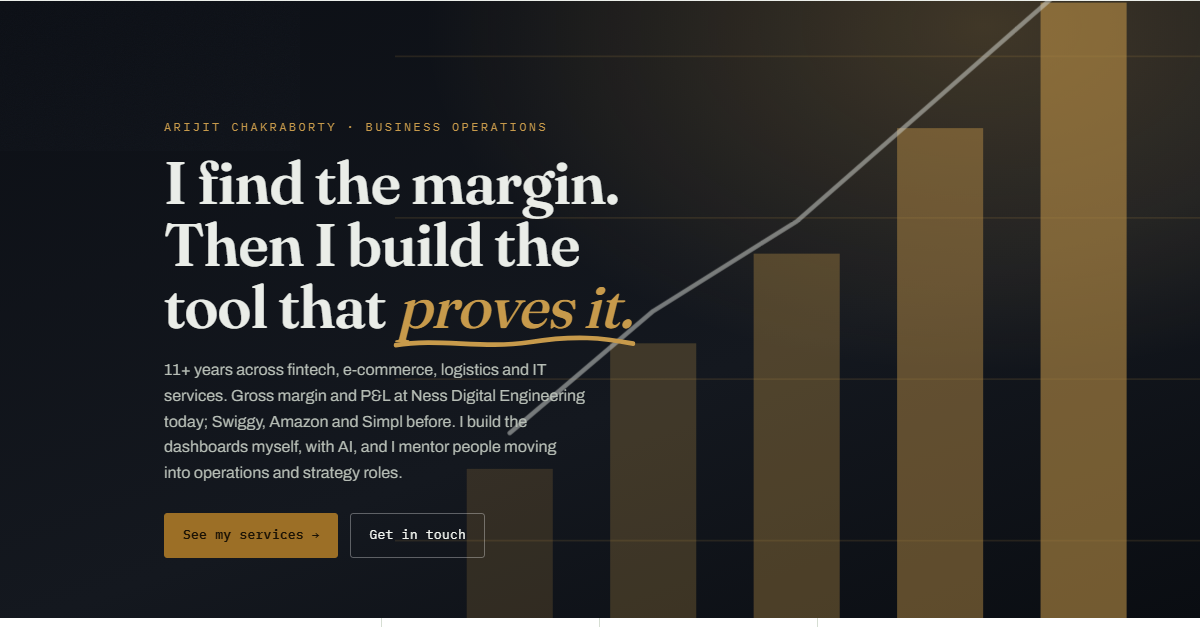
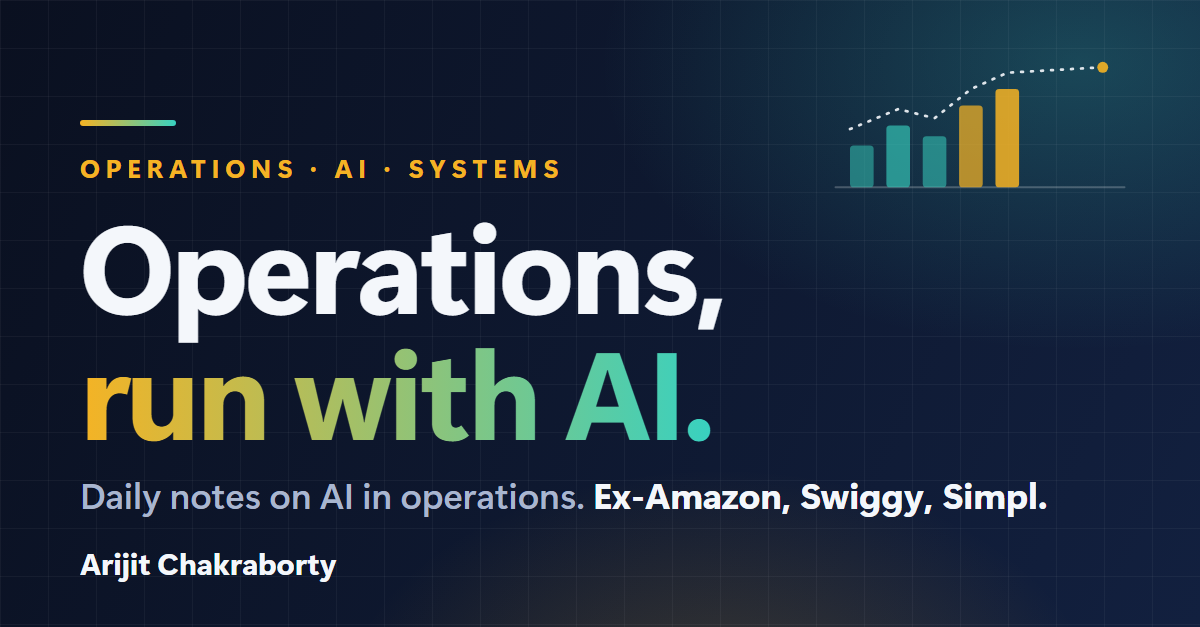
New hero and preview: Operations, run with AI

diff --git a/index.html b/index.html
@@ -3,23 +3,23 @@
 <head>
 <meta charset="utf-8">
 <meta name="viewport" content="width=device-width, initial-scale=1">
-<title>Arijit Chakraborty | Business Operations, P&L and AI-built tooling</title>
-<meta name="description" content="Operator with 11+ years across fintech, e-commerce, logistics and IT services (ex-Amazon, Swiggy, Simpl). Gross margin and P&L, operating rhythm, and the dashboards and tools to prove it. Consulting, fractional ops and mentoring.">
+<title>Arijit Chakraborty | Operations leader writing and building with AI</title>
+<meta name="description" content="Operations leader with 11+ years across fintech, e-commerce, logistics and IT services (ex-Amazon, Swiggy, Simpl). Daily notes on AI in operations: metrics that tell the truth, AI guardrails, and plain-file systems.">
 <link rel="canonical" href="https://acbizai-star.github.io/arijit-portfolio/">
 <meta name="theme-color" content="#0E1118">
 <meta property="og:type" content="profile">
 <meta property="og:site_name" content="Arijit Chakraborty">
-<meta property="og:title" content="Arijit Chakraborty | Business Operations, P&L and AI-built tooling">
-<meta property="og:description" content="Operator with 11+ years across fintech, e-commerce, logistics and IT services (ex-Amazon, Swiggy, Simpl). Gross margin and P&L, operating rhythm, and the dashboards and tools to prove it. Consulting, fractional ops and mentoring.">
+<meta property="og:title" content="Arijit Chakraborty | Operations leader writing and building with AI">
+<meta property="og:description" content="Operations leader with 11+ years across fintech, e-commerce, logistics and IT services (ex-Amazon, Swiggy, Simpl). Daily notes on AI in operations: metrics that tell the truth, AI guardrails, and plain-file systems.">
 <meta property="og:url" content="https://acbizai-star.github.io/arijit-portfolio/">
 <meta property="og:image" content="https://acbizai-star.github.io/arijit-portfolio/og-image.png">
 <meta property="og:image:width" content="1200">
 <meta property="og:image:height" content="627">
-<meta property="og:image:alt" content="Arijit Chakraborty: I find the margin. Then I build the tool that proves it.">
+<meta property="og:image:alt" content="Arijit Chakraborty: Operations, run with AI. Daily notes on AI in operations.">
 <meta name="twitter:card" content="summary_large_image">
 <meta name="twitter:site" content="@ArijitC629">
-<meta name="twitter:title" content="Arijit Chakraborty | Business Operations, P&L and AI-built tooling">
-<meta name="twitter:description" content="Operator with 11+ years across fintech, e-commerce, logistics and IT services (ex-Amazon, Swiggy, Simpl). Gross margin and P&L, operating rhythm, and the dashboards and tools to prove it. Consulting, fractional ops and mentoring.">
+<meta name="twitter:title" content="Arijit Chakraborty | Operations leader writing and building with AI">
+<meta name="twitter:description" content="Operations leader with 11+ years across fintech, e-commerce, logistics and IT services (ex-Amazon, Swiggy, Simpl). Daily notes on AI in operations: metrics that tell the truth, AI guardrails, and plain-file systems.">
 <meta name="twitter:image" content="https://acbizai-star.github.io/arijit-portfolio/og-image.png">
 <script type="application/ld+json">{"@context": "https://schema.org", "@type": "Person", "name": "Arijit Chakraborty", "url": "https://acbizai-star.github.io/arijit-portfolio/", "jobTitle": "Business Operations & Business Excellence", "alumniOf": "Shri Ram College of Commerce", "address": {"@type": "PostalAddress", "addressLocality": "Bengaluru", "addressCountry": "IN"}, "sameAs": ["https://www.linkedin.com/in/arijitc629/", "https://x.com/ArijitC629"]}</script>
 <link rel="preconnect" href="https://fonts.googleapis.com">
@@ -324,7 +324,7 @@
   </svg>
   <div class="wide">
     <div class="namechip">Arijit Chakraborty &middot; Business Operations</div>
-    <h1>I find the margin. Then I build the tool that <em class="ink">proves it.<svg class="ink-line" viewBox="0 0 200 14" preserveAspectRatio="none" aria-hidden="true"><path pathLength="100" d="M3 9 C 38 4, 74 12, 112 7 S 172 4, 197 8"/></svg></em></h1>
+    <h1>Operations, <em class="ink">run with AI.<svg class="ink-line" viewBox="0 0 200 14" preserveAspectRatio="none" aria-hidden="true"><path pathLength="100" d="M3 9 C 38 4, 74 12, 112 7 S 172 4, 197 8"/></svg></em></h1>
     <p class="sub">11+ years across fintech, e-commerce, logistics and IT services. Gross margin and P&amp;L at Ness Digital Engineering today; Swiggy, Amazon and Simpl before. I build the dashboards myself, with AI, and I mentor people moving into operations and strategy roles.</p>
     <div class="cta-row">
       <a class="btn brass" href="#services">See my services &rarr;</a>
